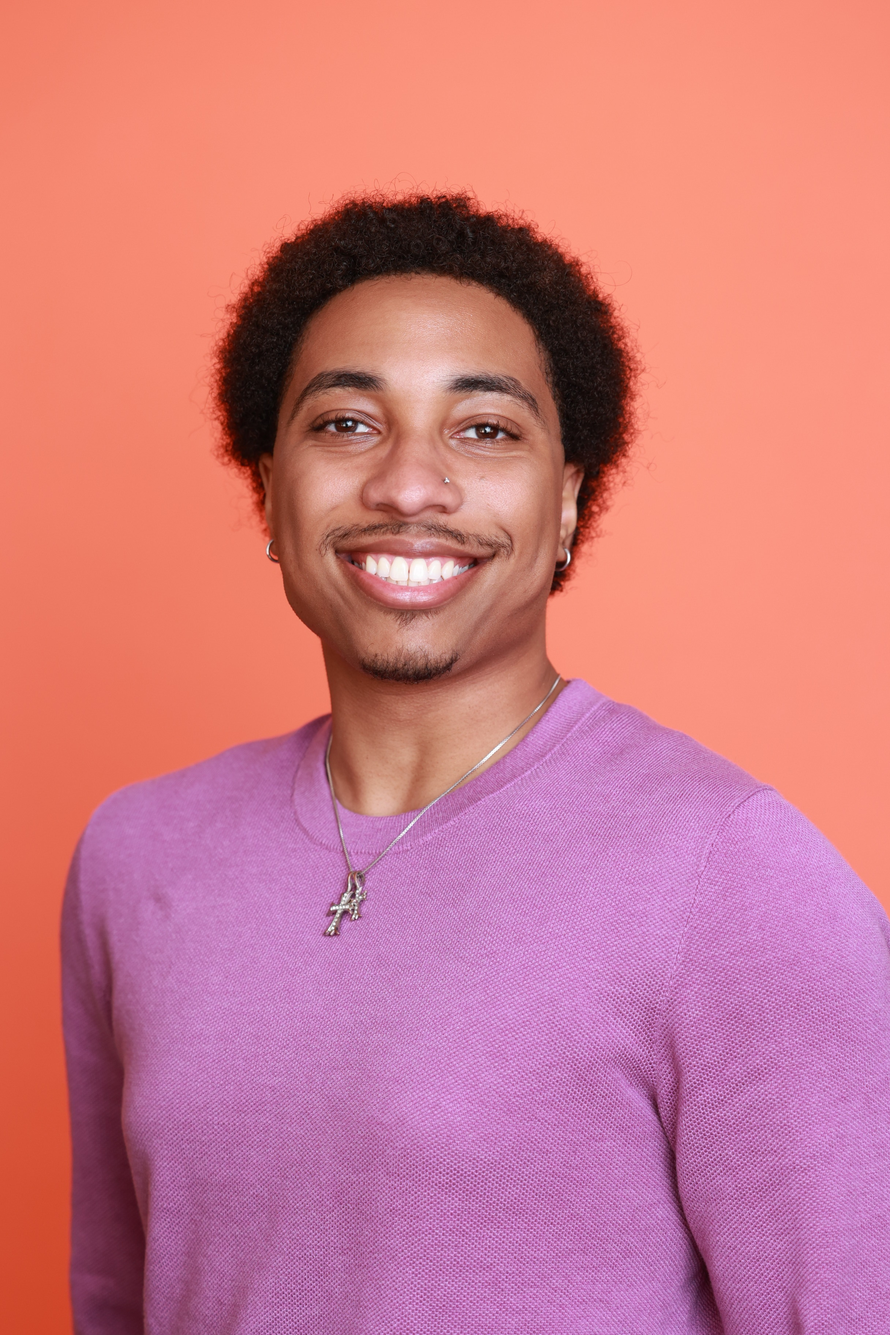
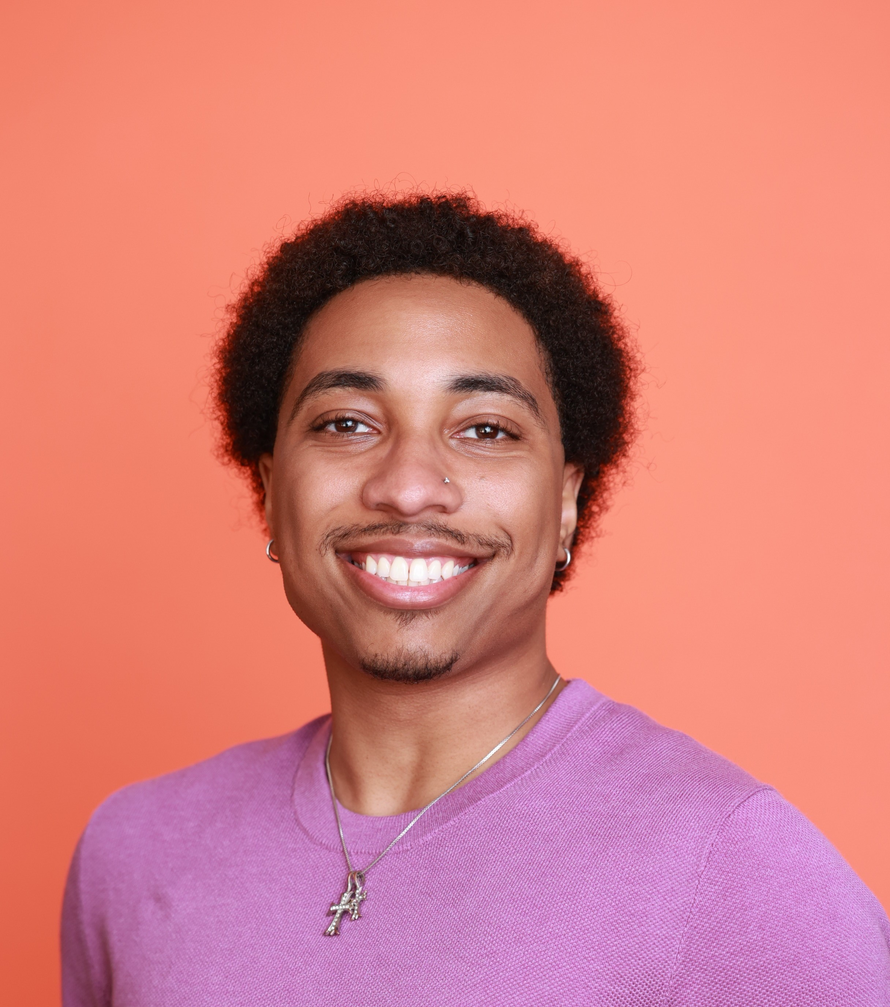
Move the guestbook onto Postgres so it is not tied to its host
The guestbook talked to Upstash Redis, which meant either Vercel's storage
marketplace or an account somewhere specific. It talks to any Postgres over
a single DATABASE_URL now, so the free tier of Neon or Supabase, or a
database on a box you own, all work with the same code and none of them tie
the site to where it is deployed.

Storage was already behind three functions in one file, so nothing outside
lib/guestbook.ts changed: not the action, not the window, not a test.

Adds postgres (postgres.js) as a dependency: 293KB unpacked, no dependencies
of its own, pure JavaScript. It was chosen over @neondatabase/serverless,
which is larger at 422KB and only speaks to Neon, and over a driverless
approach, which would have meant picking one provider's REST API and being
stuck with it.

Two things the connection needs on serverless, both handled here. The pool is
one connection, because an instance serves one request at a time and anything
larger just holds connections the pooler could give to somebody else. And
prepared statements are off, because a transaction-mode pooler cannot keep
them between statements. The connection string must be the pooled one; the
example file says so.

The table is created on first use, guarded by a promise so concurrent
requests on a cold instance wait on one statement rather than each issuing
their own CREATE. A failed migration is not cached, or every later request
would believe the table exists.
[…]

diff --git a/lib/guestbook.ts b/lib/guestbook.ts
@@ -1,20 +1,24 @@
 import "server-only"
+import postgres from "postgres"
 
 /**
  * Guestbook storage.
  *
  * Entries are shared between visitors, so they need somewhere real to live.
- * This talks to Upstash Redis over its REST API, which needs no driver and no
- * connection pooling: two environment variables and fetch. That matters on
- * serverless, where a pooled Postgres client is a liability and every cold
- * start pays for it.
+ * This talks to any Postgres over a single `DATABASE_URL`, which means the free
+ * tier of Neon or Supabase, or a database on a box you own, all work with the
+ * same code and none of them tie the site to its host.
  *
- *   UPSTASH_REDIS_REST_URL
- *   UPSTASH_REDIS_REST_TOKEN
+ *   DATABASE_URL=postgres://user:password@host/dbname?sslmode=require
  *
- * With neither set the guestbook runs against an in-process list instead, so
+ * Use the *pooled* connection string. Serverless runs many short-lived
+ * instances, and pointing them all at a direct Postgres connection exhausts the
+ * server's connection limit under any real traffic; Neon and Supabase both hand
+ * out a pooler URL for exactly this.
+ *
+ * With DATABASE_URL unset the guestbook falls back to an in-process list, so
  * local development works out of the box. That list is per-instance and does
- * not survive a restart, which is exactly why it is not the production path.
+ * not survive a restart, which is why it is not the production path.
  */
 
 export interface GuestbookEntry {
@@ -29,57 +33,118 @@ export interface GuestbookEntry {
   at: string
 }
 
-const KEY = "guestbook:entries"
 const MAX_ENTRIES = 200
 
-const url = process.env.UPSTASH_REDIS_REST_URL
-const token = process.env.UPSTASH_REDIS_REST_TOKEN
+const connectionString = process.env.DATABASE_URL
 
 export function isPersistent(): boolean {
-  return Boolean(url && token)
+  return Boolean(connectionString)
 }
 
 /** Development fallback. Per-instance and lost on restart, by design. */
 const memory: GuestbookEntry[] = []
 
-async function redis(command: unknown[]): Promise<unknown> {
-  const response = await fetch(url as string, {
-    method: "POST",
-    headers: { Authorization: `Bearer ${token}`, "Content-Type": "application/json" },
-    body: JSON.stringify(command),
-    cache: "no-store",
-  })
-  if (!response.ok) throw new Error(`Upstash responded ${response.status}`)
-  const body = (await response.json()) as { result?: unknown }
-  return body.result
+/**
+ * One connection per instance.
+ *
+ * A serverless instance handles one request at a time, so a pool of one is all
+ * it can use, and anything larger just holds connections the pooler could give
+ * to someone else. Prepared statements are off because a transaction-mode
+ * pooler cannot keep them between statements.
+ */
+let sql: ReturnType<typeof postgres> | null = null
+
+function db() {
+  if (!connectionString) return null
+  if (!sql) {
+    sql = postgres(connectionString, {
+      max: 1,
+      idle_timeout: 20,
+      prepare: false,
+    })
+  }
+  return sql
 }
 
+/**
+ * Creates the table on first use.
+ *
+ * Kept as a promise so concurrent requests on a cold instance wait on one
+ * statement rather than each issuing their own CREATE.
+ */
+let ready: Promise<void> | null = null
+
+function ensureTable(client: NonNullable<ReturnType<typeof db>>): Promise<void> {
+  if (!ready) {
+    ready = client`
+      CREATE TABLE IF NOT EXISTS guestbook (
+        id TEXT PRIMARY KEY,
+        name TEXT NOT NULL,
+        message TEXT NOT NULL,
+        site TEXT,
+        drawing TEXT,
+        created_at TIMESTAMPTZ NOT NULL DEFAULT now()
+      )
+    `.then(() => undefined)
+    // A failed migration must not be cached, or every later request believes
+    // the table exists.
+    ready.catch(() => {
+      ready = null
+    })
+  }
+  return ready
+}
+
+interface Row {
+  id: string
+  name: string
+  message: string
+  site: string | null
+  drawing: string | null
+  created_at: Date
+}
+
+const toEntry = (row: Row): GuestbookEntry => ({
+  id: row.id,
+  name: row.name,
+  message: row.message,
+  site: row.site ?? undefined,
+  drawing: row.drawing ?? undefined,
+  at: row.created_at.toISOString(),
+})
+
 export async function listEntries(): Promise<GuestbookEntry[]> {
-  if (!isPersistent()) return [...memory]
+  const client = db()
+  if (!client) return [...memory]
 
-  // Newest first: entries are pushed onto the head of the list.
-  const raw = (await redis(["LRANGE", KEY, 0, MAX_ENTRIES - 1])) as string[] | null
-  if (!raw) return []
-
-  return raw.flatMap((item) => {
-    try {
-      const parsed = JSON.parse(item) as GuestbookEntry
-      // A malformed row should cost that one row, not the whole page.
-      return parsed && typeof parsed.message === "string" ? [parsed] : []
-    } catch {
-      return []
-    }
-  })
+  await ensureTable(client)
+  const rows = await client<Row[]>`
+    SELECT id, name, message, site, drawing, created_at
+    FROM guestbook
+    ORDER BY created_at DESC
+    LIMIT ${MAX_ENTRIES}
+  `
+  return rows.map(toEntry)
 }
 
 export async function addEntry(entry: GuestbookEntry): Promise<void> {
-  if (!isPersistent()) {
+  const client = db()
+  if (!client) {
     memory.unshift(entry)
     memory.length = Math.min(memory.length, MAX_ENTRIES)
     return
   }
 
-  await redis(["LPUSH", KEY, JSON.stringify(entry)])
-  // Trim on write so the list cannot grow without bound.
-  await redis(["LTRIM", KEY, 0, MAX_ENTRIES - 1])
+  await ensureTable(client)
+  await client`
+    INSERT INTO guestbook (id, name, message, site, drawing, created_at)
+    VALUES (
+      ${entry.id},
+      ${entry.name},
+      ${entry.message},
+      ${entry.site ?? null},
+      ${entry.drawing ?? null},
+      ${entry.at}
+    )
+  `
 }
